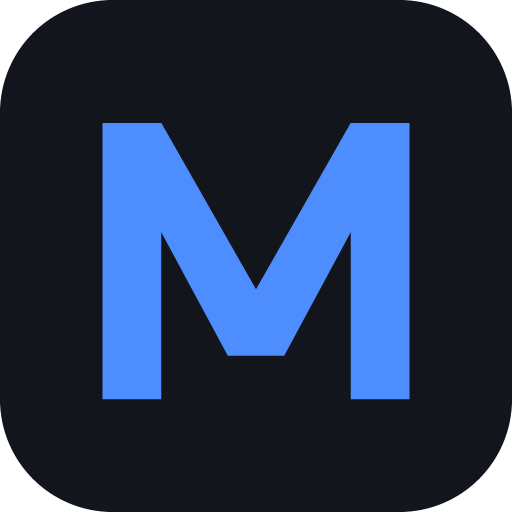
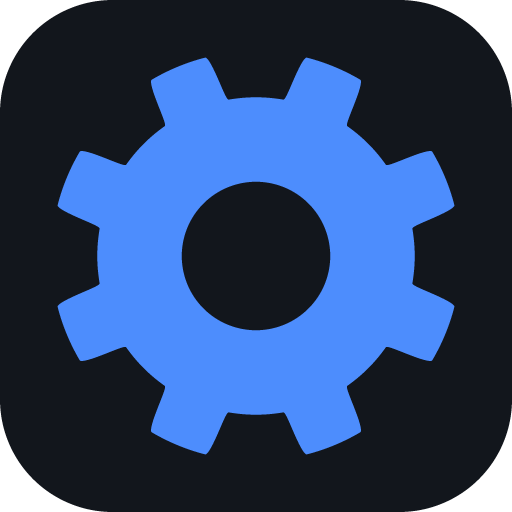
Renomeia para "Catálogo - Peças Automotivas" e troca o ícone
O produto deixa de se chamar Motrix. Nome novo na janela, no menu, no
cabeçalho da tela, na capa do catálogo exportado e nos metadados da planilha.

- ícone passa a ser uma engrenagem, rasterizada em coordenadas polares com
  supersampling; continua desenhada por código, sem editor de imagem
- app.setName com nome sem acento antes de resolver getPath('userData'):
  os dados vão para %APPDATA%\catalogo-pecas-automotivas\dados, e não para
  uma pasta com espaço e acento
- artifactName fixo em ASCII para os instaladores, já que o productName tem
  acento e espaço
- chave do tema no localStorage e variáveis do autoteste renomeadas
- infra do Docker renomeada junto (serviço, imagem, container e volume)
- versão 0.3.0

A pasta local e o repositório continuam com o nome antigo.

Changed region(s): [[0.0938, 0.0938, 0.9062, 0.9062]]

diff --git a/scripts/gerar-icone.js b/scripts/gerar-icone.js
@@ -1,7 +1,7 @@
 'use strict';
 
 /**
- * Desenha o icone do Motrix e grava desktop/icone.ico (+ um PNG de 512 para outros usos).
+ * Desenha o icone do aplicativo e grava desktop/icone.ico (+ um PNG de 512 para outros usos).
  * Feito na unha com o codificador PNG do proprio projeto: nada de canvas ou binario nativo,
  * que quebrariam o empacotamento.
  *   node scripts/gerar-icone.js
@@ -17,27 +17,37 @@ const SUPERAMOSTRAGEM = 4; // 4x4 amostras por pixel: e o que da a borda suave
 const FUNDO = [18, 22, 28];      // mesmo #12161c do tema escuro do app
 const MARCA = [77, 141, 253];    // mesmo acento azul
 
-/** O "M" em coordenadas de 0 a 1, como uma lista de poligonos preenchidos. */
-const HASTE = 0.115;
-const M = [
-  // haste esquerda
-  [[0.20, 0.24], [0.20, 0.78], [0.20 + HASTE, 0.78], [0.20 + HASTE, 0.24]],
-  // haste direita
-  [[0.80 - HASTE, 0.24], [0.80 - HASTE, 0.78], [0.80, 0.78], [0.80, 0.24]],
-  // o V do meio como um poligono unico: duas diagonais separadas deixam
-  // um entalhe no vertice, onde uma nao cobre o que falta na outra
-  [[0.20, 0.24], [0.315, 0.24], [0.50, 0.565], [0.685, 0.24], [0.80, 0.24],
-    [0.555, 0.695], [0.445, 0.695]],
-];
+// Engrenagem: numeros escolhidos para o desenho continuar legivel em 16 px,
+// onde cada dente tem pouco mais de um pixel.
+const DENTES = 8;
+const RAIO_DENTE = 0.400;   // ponta do dente
+const RAIO_BASE = 0.310;    // vale entre os dentes
+const RAIO_FURO = 0.145;    // furo central, que mostra o fundo
+const LARGURA_DENTE = 0.46; // fracao do passo ocupada pelo dente
+const SUAVIZACAO = 0.10;    // transicao angular: sem isso o dente vira um degrau duro
 
-function dentroDoPoligono(x, y, poligono) {
-  let dentro = false;
-  for (let i = 0, j = poligono.length - 1; i < poligono.length; j = i++) {
-    const [xi, yi] = poligono[i];
-    const [xj, yj] = poligono[j];
-    if ((yi > y) !== (yj > y) && x < ((xj - xi) * (y - yi)) / (yj - yi) + xi) dentro = !dentro;
-  }
-  return dentro;
+function suavizar(borda0, borda1, valor) {
+  const t = Math.min(Math.max((valor - borda0) / (borda1 - borda0), 0), 1);
+  return t * t * (3 - 2 * t);
+}
+
+/** Raio da engrenagem no angulo dado: alterna ponta e vale a cada dente. */
+function raioNoAngulo(angulo) {
+  const passo = (Math.PI * 2) / DENTES;
+  const fase = ((angulo % passo) + passo) % passo / passo; // 0..1 dentro do dente
+  const distanciaDoCentroDoDente = Math.abs(fase - 0.5);
+  const meia = LARGURA_DENTE / 2;
+
+  const dentro = suavizar(meia + SUAVIZACAO / 2, meia - SUAVIZACAO / 2, distanciaDoCentroDoDente);
+  return RAIO_BASE + (RAIO_DENTE - RAIO_BASE) * dentro;
+}
+
+function naEngrenagem(x, y) {
+  const dx = x - 0.5;
+  const dy = y - 0.5;
+  const raio = Math.hypot(dx, dy);
+  if (raio < RAIO_FURO) return false;
+  return raio <= raioNoAngulo(Math.atan2(dy, dx));
 }
 
 /** Canto arredondado do quadrado de fundo, no mesmo raio proporcional do app. */
@@ -61,7 +71,7 @@ function desenhar(lado) {
           const y = (py + (sy + 0.5) / SUPERAMOSTRAGEM) / lado;
           if (!dentroDoQuadrado(x, y)) continue;
           cobertura++;
-          if (M.some((poligono) => dentroDoPoligono(x, y, poligono))) cobreMarca++;
+          if (naEngrenagem(x, y)) cobreMarca++;
         }
       }
 

diff --git a/desktop/main.js b/desktop/main.js
@@ -4,10 +4,16 @@ const path = require('path');
 const { app, BrowserWindow, Menu, shell, dialog } = require('electron');
 
 /**
- * Processo principal do Motrix desktop.
+ * Processo principal do aplicativo de desktop.
  * O mesmo servidor Express do modo servidor roda aqui dentro, numa porta livre
  * escolhida pelo sistema; a janela e so um navegador apontado para ele.
  */
+
+const NOME = 'Catálogo - Peças Automotivas';
+
+// O nome de exibicao tem acento e espaco; a pasta de dados nao pode ter, para nao
+// depender de codificacao do sistema de arquivos. Precisa vir antes de getPath.
+app.setName('catalogo-pecas-automotivas');
 
 // Os dados do usuario NAO podem ficar junto do programa: em C:\Program Files nao ha
 // permissao de escrita e o app.asar e somente leitura. Vao para a pasta do usuario.
@@ -69,11 +75,11 @@ function montarMenu() {
           click: () => shell.openPath(process.env.DATA_DIR),
         },
         {
-          label: 'Sobre o Motrix',
+          label: `Sobre o ${NOME}`,
           click: () => dialog.showMessageBox(janela, {
             type: 'info',
-            title: 'Sobre o Motrix',
-            message: `Motrix ${app.getVersion()}`,
+            title: `Sobre o ${NOME}`,
+            message: `${NOME} ${app.getVersion()}`,
             detail: 'Controle de peças catalogadas.\n\n'
               + `Banco e arquivos importados: ${process.env.DATA_DIR}`,
             buttons: ['Fechar'],
@@ -90,7 +96,7 @@ function criarJanela(url) {
     height: 860,
     minWidth: 900,
     minHeight: 600,
-    title: 'Motrix',
+    title: NOME,
     icon: ICONE,
     backgroundColor: '#12161c', // evita o flash branco antes da pagina pintar
     show: false,
@@ -108,7 +114,7 @@ function criarJanela(url) {
   });
 
   janela.loadURL(url);
-  if (process.env.MOTRIX_AUTOTESTE === '1') autoteste(url);
+  if (process.env.CATALOGO_AUTOTESTE === '1') autoteste(url);
 }
 
 /**
@@ -123,8 +129,8 @@ function autoteste(url) {
       const telaMontada = await janela.webContents
         .executeJavaScript('!!document.querySelector("#tabela-itens") && !!document.querySelector("#tema")');
       const catalogos = await fetch(`${url}/api/catalogos`).then((r) => r.json());
-      const importacao = process.env.MOTRIX_TESTE_ARQUIVO
-        ? await importarDeTeste(url, process.env.MOTRIX_TESTE_ARQUIVO)
+      const importacao = process.env.CATALOGO_TESTE_ARQUIVO
+        ? await importarDeTeste(url, process.env.CATALOGO_TESTE_ARQUIVO)
         : null;
 
       console.log(JSON.stringify({
@@ -134,7 +140,7 @@ function autoteste(url) {
       }));
 
       const importacaoOk = !importacao || importacao.status === 'processado';
-      app.exit(saude.ok && telaMontada && titulo === 'Motrix' && importacaoOk ? 0 : 1);
+      app.exit(saude.ok && telaMontada && titulo === NOME && importacaoOk ? 0 : 1);
     } catch (erro) {
       console.error('autoteste falhou:', erro);
       app.exit(1);
@@ -171,7 +177,7 @@ app.whenReady().then(async () => {
     montarMenu();
     criarJanela(inicio.url);
   } catch (erro) {
-    dialog.showErrorBox('Motrix não conseguiu iniciar', String(erro?.stack || erro));
+    dialog.showErrorBox(`${NOME} não conseguiu iniciar`, String(erro?.stack || erro));
     app.quit();
   }
 });

diff --git a/public/index.html b/public/index.html
@@ -3,12 +3,12 @@
 <head>
   <meta charset="utf-8" />
   <meta name="viewport" content="width=device-width, initial-scale=1" />
-  <title>Motrix</title>
+  <title>Catálogo - Peças Automotivas</title>
   <link rel="stylesheet" href="style.css" />
   <script>
     // aplica o tema antes de pintar a tela: sem isso o modo escuro pisca branco ao carregar
     try {
-      var tema = localStorage.getItem('motrix:tema');
+      var tema = localStorage.getItem('catalogo:tema');
       if (tema) document.documentElement.dataset.tema = tema;
     } catch (e) { /* navegacao privada sem localStorage: segue no tema do sistema */ }
   </script>
@@ -16,8 +16,8 @@
 <body>
   <header>
     <div class="marca">
-      <strong>Motrix</strong>
-      <span class="suave">controle de peças catalogadas</span>
+      <strong>Catálogo</strong>
+      <span class="suave">Peças Automotivas</span>
     </div>
     <div class="catalogo-barra">
       <select id="catalogo"></select>
@@ -46,7 +46,7 @@
         </div>
         <p class="dica">
           Serve tanto para o catálogo de peças quanto para a tabela de preços da fábrica —
-          o Motrix reconhece as colunas sozinho e casa as peças pelo código.
+          o sistema reconhece as colunas sozinho e casa as peças pelo código.
           Faixas por volume (“100 a 199”, “acima de 200”) viram preço por quantidade.
         </p>
       </form>

diff --git a/src/exports/catalogoHtml.js b/src/exports/catalogoHtml.js
@@ -7,7 +7,7 @@ const { descreverAplicacao } = require('../services/exportService');
 
 /**
  * Catalogo de apresentacao em HTML autocontido: as fotos viram data URI, entao o arquivo
- * pode ser enviado por e-mail ou aberto sem o Motrix no ar. O CSS de impressao ja prepara
+ * pode ser enviado por e-mail ou aberto sem o sistema no ar. O CSS de impressao ja prepara
  * o PDF (Ctrl+P > Salvar como PDF), sem precisar de gerador de PDF no servidor.
  */
 
@@ -144,7 +144,7 @@ function gerarCatalogoHtml(dados) {
 <body>
   <div class="folha">
     <header class="capa">
-      <div class="marca">Motrix</div>
+      <div class="marca">Peças Automotivas</div>
       <h1>${escapar(opcoes.titulo)}</h1>
       ${opcoes.subtitulo ? `<div class="sub">${escapar(opcoes.subtitulo)}</div>` : ''}
       <div class="resumo">
@@ -162,7 +162,7 @@ function gerarCatalogoHtml(dados) {
 
     <footer class="rodape">
       <span>${escapar(catalogo.nome)}</span>
-      <span>Gerado pelo Motrix em ${gerado}</span>
+      <span>Emitido em ${gerado}</span>
     </footer>
   </div>
 </body>

diff --git a/src/exports/catalogoXlsx.js b/src/exports/catalogoXlsx.js
@@ -10,7 +10,7 @@ const { descreverAplicacao } = require('../services/exportService');
 async function gerarCatalogoXlsx(dados) {
   const { catalogo, opcoes, grupos, resumo } = dados;
   const workbook = new ExcelJS.Workbook();
-  workbook.creator = 'Motrix';
+  workbook.creator = 'Catálogo - Peças Automotivas';
   workbook.created = new Date();
 
   const ws = workbook.addWorksheet('Catalogo', {

diff --git a/src/server.js b/src/server.js
@@ -57,7 +57,7 @@ function iniciar(porta = PORT) {
 
 // executado direto pelo Node (npm start); dentro do Electron quem chama e o desktop/main.js
 if (require.main === module) {
-  iniciar().then(({ url }) => console.log(`Motrix rodando em ${url}`));
+  iniciar().then(({ url }) => console.log(`Catálogo - Peças Automotivas rodando em ${url}`));
 }
 
 module.exports = { app, iniciar };

diff --git a/public/app.js b/public/app.js
@@ -19,7 +19,7 @@ const escapar = (texto) =>
 
 // ------------------------------------------------------------------ tema
 
-const TEMA_CHAVE = 'motrix:tema';
+const TEMA_CHAVE = 'catalogo:tema';
 const preferenciaEscura = window.matchMedia('(prefers-color-scheme: dark)');
 
 const lerTemaSalvo = () => {

diff --git a/README.md b/README.md
@@ -1,4 +1,4 @@
-# Motrix
+# Catálogo - Peças Automotivas
 
 Controle de peças catalogadas. Recebe os arquivos que as fábricas mandam (planilha, Word, PDF,
 PSD), lê códigos e peças, consolida tudo em um catálogo único e deixa você editar cada item
@@ -21,14 +21,14 @@ Saem dois arquivos em `dist/`:
 
 | Arquivo | O que faz |
 |---|---|
-| `Motrix-0.2.0-instalador.exe` | instala, cria o atalho na Área de Trabalho e no menu Iniciar |
-| `Motrix-0.2.0-portatil.exe` | roda direto, sem instalar — serve para pendrive |
+| `Catalogo-Pecas-Automotivas-0.3.0-instalador.exe` | instala, cria o atalho na Área de Trabalho e no menu Iniciar |
+| `Catalogo-Pecas-Automotivas-0.3.0-portatil.exe` | roda direto, sem instalar — serve para pendrive |
 
 A máquina que vai usar **não precisa de Node, Docker nem VS Code**: o Electron leva tudo dentro.
 É o mesmo servidor Express rodando dentro do programa, numa porta livre escolhida na hora,
 acessível só em `127.0.0.1` (não abre nada para a rede).
 
-Seus dados ficam em `%APPDATA%\motrix\dados` — fora da pasta do programa, para sobreviverem a
+Seus dados ficam em `%APPDATA%\catalogo-pecas-automotivas\dados` — fora da pasta do programa, para sobreviverem a
 uma reinstalação. O menu **Ajuda → Onde ficam meus dados** abre essa pasta; faça o backup dela.
 
 O botão *Abrir catálogo* manda o catálogo exportado para o seu navegador padrão, que é onde
@@ -51,8 +51,9 @@ npm run preparar:node      # binário para o Node — necessário antes de `npm 
 Na prática: depois de gerar o instalador, rode `npm run preparar:node` se for voltar a usar
 `npm start` ou os testes. O Docker não é afetado — ele compila dentro da imagem.
 
-O ícone é desenhado por código (`npm run icone`), sem editor de imagem: um "M" azul sobre
-quadrado escuro, gerado em 16 a 256 px e empacotado como `.ico`.
+O ícone é desenhado por código (`npm run icone`), sem editor de imagem: uma engrenagem azul
+sobre quadrado escuro, rasterizada em coordenadas polares e empacotada como `.ico` de 16 a
+256 px.
 
 ### Docker (para servidor)
 
@@ -61,7 +62,7 @@ docker compose up -d
 ```
 
 Sobe em `http://localhost:3000`. O banco, os uploads e as imagens ficam no volume
-`motrix-dados`, então recriar o container não perde nada.
+`catalogo-dados`, então recriar o container não perde nada.
 Para mudar a porta: `PORT=8080 docker compose up -d`.
 
 ### Local
@@ -79,7 +80,7 @@ node scripts/gerar-exemplos.js && node scripts/gerar-pdf-psd.js && node scripts/
 
 ## Como funciona
 
-Você importa um arquivo dizendo **de qual fábrica** ele é e a **data-base**. O Motrix acha o
+Você importa um arquivo dizendo **de qual fábrica** ele é e a **data-base**. O sistema acha o
 cabeçalho da tabela, reconhece as colunas por sinônimo e casa cada linha com uma peça que já
 exista no catálogo (pelo código principal ou por qualquer código equivalente). Coluna que ele
 não reconhece é preservada em `itens.dados_extra` — nada é descartado.
@@ -126,7 +127,7 @@ Cabeçalhos reconhecidos como faixa: `1 a 99`, `100-199`, `200+`, `Acima de 200`
 
 ### Tema claro e escuro
 
-O botão no cabeçalho alterna entre os dois. Enquanto você não escolher, o Motrix segue o tema do
+O botão no cabeçalho alterna entre os dois. Enquanto você não escolher, o programa segue o tema do
 sistema operacional; depois da primeira escolha, ela é gravada no navegador e passa a mandar.
 Um script inline no `<head>` aplica o tema antes da primeira pintura, para a tela não piscar
 branca ao abrir no escuro.
@@ -145,7 +146,7 @@ na lista (montadora e fornecedor valem para a exportação também). Três saíd
 | **Uso interno** | mesma peça mostrando custo por fornecedor, faixas de volume e margem |
 
 O HTML embute as fotos como data URI, então o arquivo pode ser enviado por e-mail e aberto sem
-o Motrix no ar. Não há gerador de PDF no servidor de propósito: o navegador já imprime em A4
+o programa no ar. Não há gerador de PDF no servidor de propósito: o navegador já imprime em A4
 com quebra de página correta, e isso evita mais uma dependência nativa no Docker.
 
 **A versão do cliente não mostra fornecedor nem custo** — de quem você compra é justamente o
